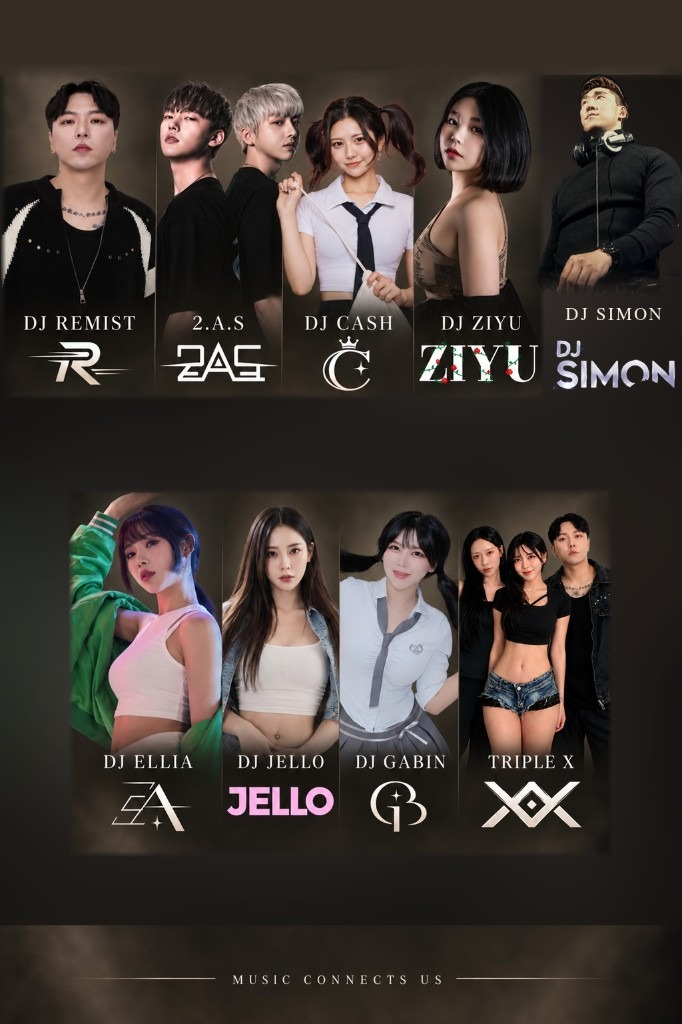
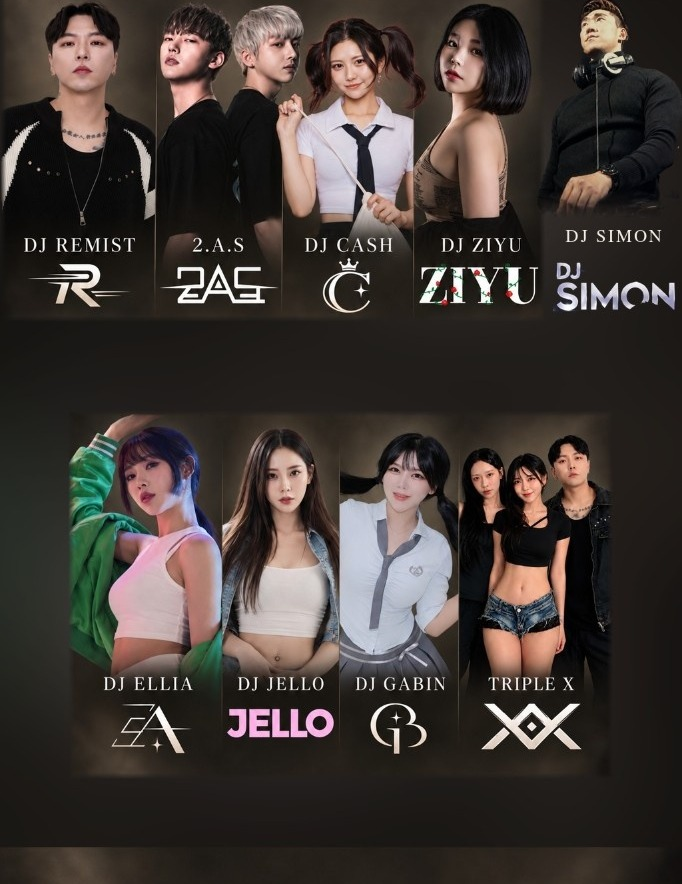
fix: DJ 일정을 날짜 카드로 바꾸고 라인업 문구를 자른다.

diff --git a/docs/cruise-festival/index.html b/docs/cruise-festival/index.html
@@ -82,15 +82,18 @@ h2{font-size:clamp(26px,3.6vw,36px);font-weight:600;letter-spacing:.06em;margin-
 .show-atm img{width:100%;height:100%;object-fit:cover}
 .show-fig.lineup{width:min(520px,92%);margin:40px auto 0;background:#111}
 .show-fig.lineup img{width:100%;height:auto;display:block}
-.days{display:grid;grid-template-columns:repeat(4,1fr);gap:8px;margin:40px auto 0;text-align:left}
-.day{background:#181818;border:1px solid #2c2c2c;padding:18px 16px 16px;min-height:168px}
-.day.wk{background:#1f1a14;border-color:#3a3228}
-.day .when{display:flex;align-items:baseline;justify-content:space-between;gap:8px;padding-bottom:12px;border-bottom:1px solid #2c2c2c}
-.day b{font-size:26px;font-weight:600;letter-spacing:.04em;line-height:1}
-.day .yo{font-size:13px;color:#9a9488;letter-spacing:.08em}
-.day dl{margin-top:14px;display:grid;gap:12px}
-.day dt{font-size:11px;color:#8a8478;letter-spacing:.08em}
-.day dd{margin-top:3px;font-size:18px;font-weight:600;letter-spacing:.04em}
+.days{display:grid;grid-template-columns:repeat(4,1fr);gap:12px;margin:48px auto 0;text-align:left}
+.day{background:#141414;border:1px solid #2e2e2e;overflow:hidden}
+.day.wk{border-color:#4a3f32}
+.day .when{display:flex;align-items:center;justify-content:space-between;gap:10px;padding:16px;background:#0c0c0c}
+.day.wk .when{background:#1c1712}
+.day b{font-size:28px;font-weight:600;letter-spacing:.04em;line-height:1}
+.day .yo{font-size:12px;letter-spacing:.12em;color:#cfc6b6;border:1px solid #5a5348;padding:3px 8px}
+.day.wk .yo{border-color:#8a7a64;color:#eadcc8}
+.slot{padding:14px 16px;border-top:1px solid #2a2a2a}
+.slot.two{background:#1a1a1a}
+.slot em{display:block;font-style:normal;font-size:11px;color:#8a8478;letter-spacing:.12em}
+.slot strong{display:block;margin-top:5px;font-size:18px;font-weight:600;letter-spacing:.04em}
 .prog{margin-top:16px;font-size:16px;color:#d8d2c6;letter-spacing:.08em;line-height:1.9}
 
 .zgrid{display:grid;grid-template-columns:repeat(4,1fr);grid-auto-rows:minmax(180px,22vw);gap:4px;margin-top:28px}
@@ -191,7 +194,7 @@ h2{font-size:clamp(26px,3.6vw,36px);font-weight:600;letter-spacing:.06em;margin-
   <figure class="pic" data-src="assets/photos/sc-look.jpg"><img src="assets/photos/sc-look.jpg" alt="선상에서 본 여의도"></figure>
   <figure class="pic wide" data-src="assets/photos/sc-fromboat.jpg"><img src="assets/photos/sc-fromboat.jpg" alt="선상에서 본 서울크루즈"></figure>
   <figure class="pic wide" data-src="assets/photos/sc-river-night.jpg"><img src="assets/photos/sc-river-night.jpg" alt="한강 야경과 유람선"></figure>
-  <figure class="pic" data-src="assets/photos/sc-enter.jpg"><img src="assets/photos/sc-enter.jpg" alt="서울크루즈 입구"></figure>
+  <figure class="pic" data-src="assets/photos/sc-gulls.jpg"><img src="assets/photos/sc-gulls.jpg" alt="선상 갈매기"></figure>
   <figure class="pic" data-src="assets/photos/p03.jpg"><img src="assets/photos/p03.jpg" alt="한강에서 본 선착장"></figure>
   <figure class="pic" data-src="assets/photos/p00.jpg"><img src="assets/photos/p00.jpg" alt="서울크루즈 선착장"></figure>
   <figure class="pic" data-src="assets/photos/roof.jpg"><img src="assets/photos/roof.jpg" alt="루프탑 건물"></figure>
@@ -226,23 +229,23 @@ h2{font-size:clamp(26px,3.6vw,36px);font-weight:600;letter-spacing:.06em;margin-
       <figure class="pic" data-src="assets/photos/sc-hall.jpg"><img src="assets/photos/sc-hall.jpg" alt="선내 공연 홀"></figure>
       <figure class="pic" data-src="assets/photos/sc-rooftop-lights.jpg"><img src="assets/photos/sc-rooftop-lights.jpg" alt="루프탑 야간 공연 공간"></figure>
     </div>
-    <figure class="show-fig lineup pic" data-src="assets/photos/dj-lineup.jpg?v=nobpm">
-      <img src="assets/photos/dj-lineup.jpg?v=nobpm" alt="DJ 라인업">
+    <figure class="show-fig lineup pic" data-src="assets/photos/dj-lineup.jpg?v=cut">
+      <img src="assets/photos/dj-lineup.jpg?v=cut" alt="DJ 라인업">
     </figure>
     <div class="days">
-      <article class="day"><div class="when"><b>10.1</b><span class="yo">목</span></div><dl><div><dt>1부 20:00</dt><dd>리미스트</dd></div><div><dt>2부 23:00</dt><dd>캐쉬</dd></div></dl></article>
-      <article class="day"><div class="when"><b>10.2</b><span class="yo">금</span></div><dl><div><dt>1부 20:00</dt><dd>리미스트</dd></div><div><dt>2부 23:00</dt><dd>엘리아</dd></div></dl></article>
-      <article class="day wk"><div class="when"><b>10.3</b><span class="yo">토</span></div><dl><div><dt>1부 20:00</dt><dd>싸이먼</dd></div><div><dt>2부 23:00</dt><dd>2AS</dd></div></dl></article>
-      <article class="day wk"><div class="when"><b>10.4</b><span class="yo">일</span></div><dl><div><dt>1부 20:00</dt><dd>싸이먼</dd></div><div><dt>2부 23:00</dt><dd>젤로</dd></div></dl></article>
-      <article class="day"><div class="when"><b>10.5</b><span class="yo">월</span></div><dl><div><dt>1부 20:00</dt><dd>리미스트</dd></div><div><dt>2부 23:00</dt><dd>가빈</dd></div></dl></article>
-      <article class="day"><div class="when"><b>10.6</b><span class="yo">화</span></div><dl><div><dt>1부 20:00</dt><dd>싸이먼</dd></div><div><dt>2부 23:00</dt><dd>지유</dd></div></dl></article>
-      <article class="day"><div class="when"><b>10.7</b><span class="yo">수</span></div><dl><div><dt>1부 20:00</dt><dd>리미스트</dd></div><div><dt>2부 23:00</dt><dd>가빈</dd></div></dl></article>
-      <article class="day"><div class="when"><b>10.8</b><span class="yo">목</span></div><dl><div><dt>1부 20:00</dt><dd>싸이먼</dd></div><div><dt>2부 23:00</dt><dd>캐쉬</dd></div></dl></article>
-      <article class="day"><div class="when"><b>10.9</b><span class="yo">금</span></div><dl><div><dt>1부 20:00</dt><dd>리미스트</dd></div><div><dt>2부 23:00</dt><dd>2AS</dd></div></dl></article>
-      <article class="day wk"><div class="when"><b>10.10</b><span class="yo">토</span></div><dl><div><dt>1부 20:00</dt><dd>싸이먼</dd></div><div><dt>2부 23:00</dt><dd>허니</dd></div></dl></article>
-      <article class="day wk"><div class="when"><b>10.11</b><span class="yo">일</span></div><dl><div><dt>1부 20:00</dt><dd>리미스트</dd></div><div><dt>2부 23:00</dt><dd>젤로</dd></div></dl></article>
-      <article class="day"><div class="when"><b>10.12</b><span class="yo">월</span></div><dl><div><dt>1부 20:00</dt><dd>리미스트</dd></div><div><dt>2부 23:00</dt><dd>가빈</dd></div></dl></article>
-      <article class="day"><div class="when"><b>10.13</b><span class="yo">화</span></div><dl><div><dt>1부 20:00</dt><dd>싸이먼</dd></div><div><dt>2부 23:00</dt><dd>캐쉬</dd></div></dl></article>
+      <article class="day"><div class="when"><b>10.1</b><span class="yo">목</span></div><div class="slot"><em>1부 · 20:00</em><strong>리미스트</strong></div><div class="slot two"><em>2부 · 23:00</em><strong>캐쉬</strong></div></article>
+      <article class="day"><div class="when"><b>10.2</b><span class="yo">금</span></div><div class="slot"><em>1부 · 20:00</em><strong>리미스트</strong></div><div class="slot two"><em>2부 · 23:00</em><strong>엘리아</strong></div></article>
+      <article class="day wk"><div class="when"><b>10.3</b><span class="yo">토</span></div><div class="slot"><em>1부 · 20:00</em><strong>싸이먼</strong></div><div class="slot two"><em>2부 · 23:00</em><strong>2AS</strong></div></article>
+      <article class="day wk"><div class="when"><b>10.4</b><span class="yo">일</span></div><div class="slot"><em>1부 · 20:00</em><strong>싸이먼</strong></div><div class="slot two"><em>2부 · 23:00</em><strong>젤로</strong></div></article>
+      <article class="day"><div class="when"><b>10.5</b><span class="yo">월</span></div><div class="slot"><em>1부 · 20:00</em><strong>리미스트</strong></div><div class="slot two"><em>2부 · 23:00</em><strong>가빈</strong></div></article>
+      <article class="day"><div class="when"><b>10.6</b><span class="yo">화</span></div><div class="slot"><em>1부 · 20:00</em><strong>싸이먼</strong></div><div class="slot two"><em>2부 · 23:00</em><strong>지유</strong></div></article>
+      <article class="day"><div class="when"><b>10.7</b><span class="yo">수</span></div><div class="slot"><em>1부 · 20:00</em><strong>리미스트</strong></div><div class="slot two"><em>2부 · 23:00</em><strong>가빈</strong></div></article>
+      <article class="day"><div class="when"><b>10.8</b><span class="yo">목</span></div><div class="slot"><em>1부 · 20:00</em><strong>싸이먼</strong></div><div class="slot two"><em>2부 · 23:00</em><strong>캐쉬</strong></div></article>
+      <article class="day"><div class="when"><b>10.9</b><span class="yo">금</span></div><div class="slot"><em>1부 · 20:00</em><strong>리미스트</strong></div><div class="slot two"><em>2부 · 23:00</em><strong>2AS</strong></div></article>
+      <article class="day wk"><div class="when"><b>10.10</b><span class="yo">토</span></div><div class="slot"><em>1부 · 20:00</em><strong>싸이먼</strong></div><div class="slot two"><em>2부 · 23:00</em><strong>허니</strong></div></article>
+      <article class="day wk"><div class="when"><b>10.11</b><span class="yo">일</span></div><div class="slot"><em>1부 · 20:00</em><strong>리미스트</strong></div><div class="slot two"><em>2부 · 23:00</em><strong>젤로</strong></div></article>
+      <article class="day"><div class="when"><b>10.12</b><span class="yo">월</span></div><div class="slot"><em>1부 · 20:00</em><strong>리미스트</strong></div><div class="slot two"><em>2부 · 23:00</em><strong>가빈</strong></div></article>
+      <article class="day"><div class="when"><b>10.13</b><span class="yo">화</span></div><div class="slot"><em>1부 · 20:00</em><strong>싸이먼</strong></div><div class="slot two"><em>2부 · 23:00</em><strong>캐쉬</strong></div></article>
     </div>
   </div>
 </section>
